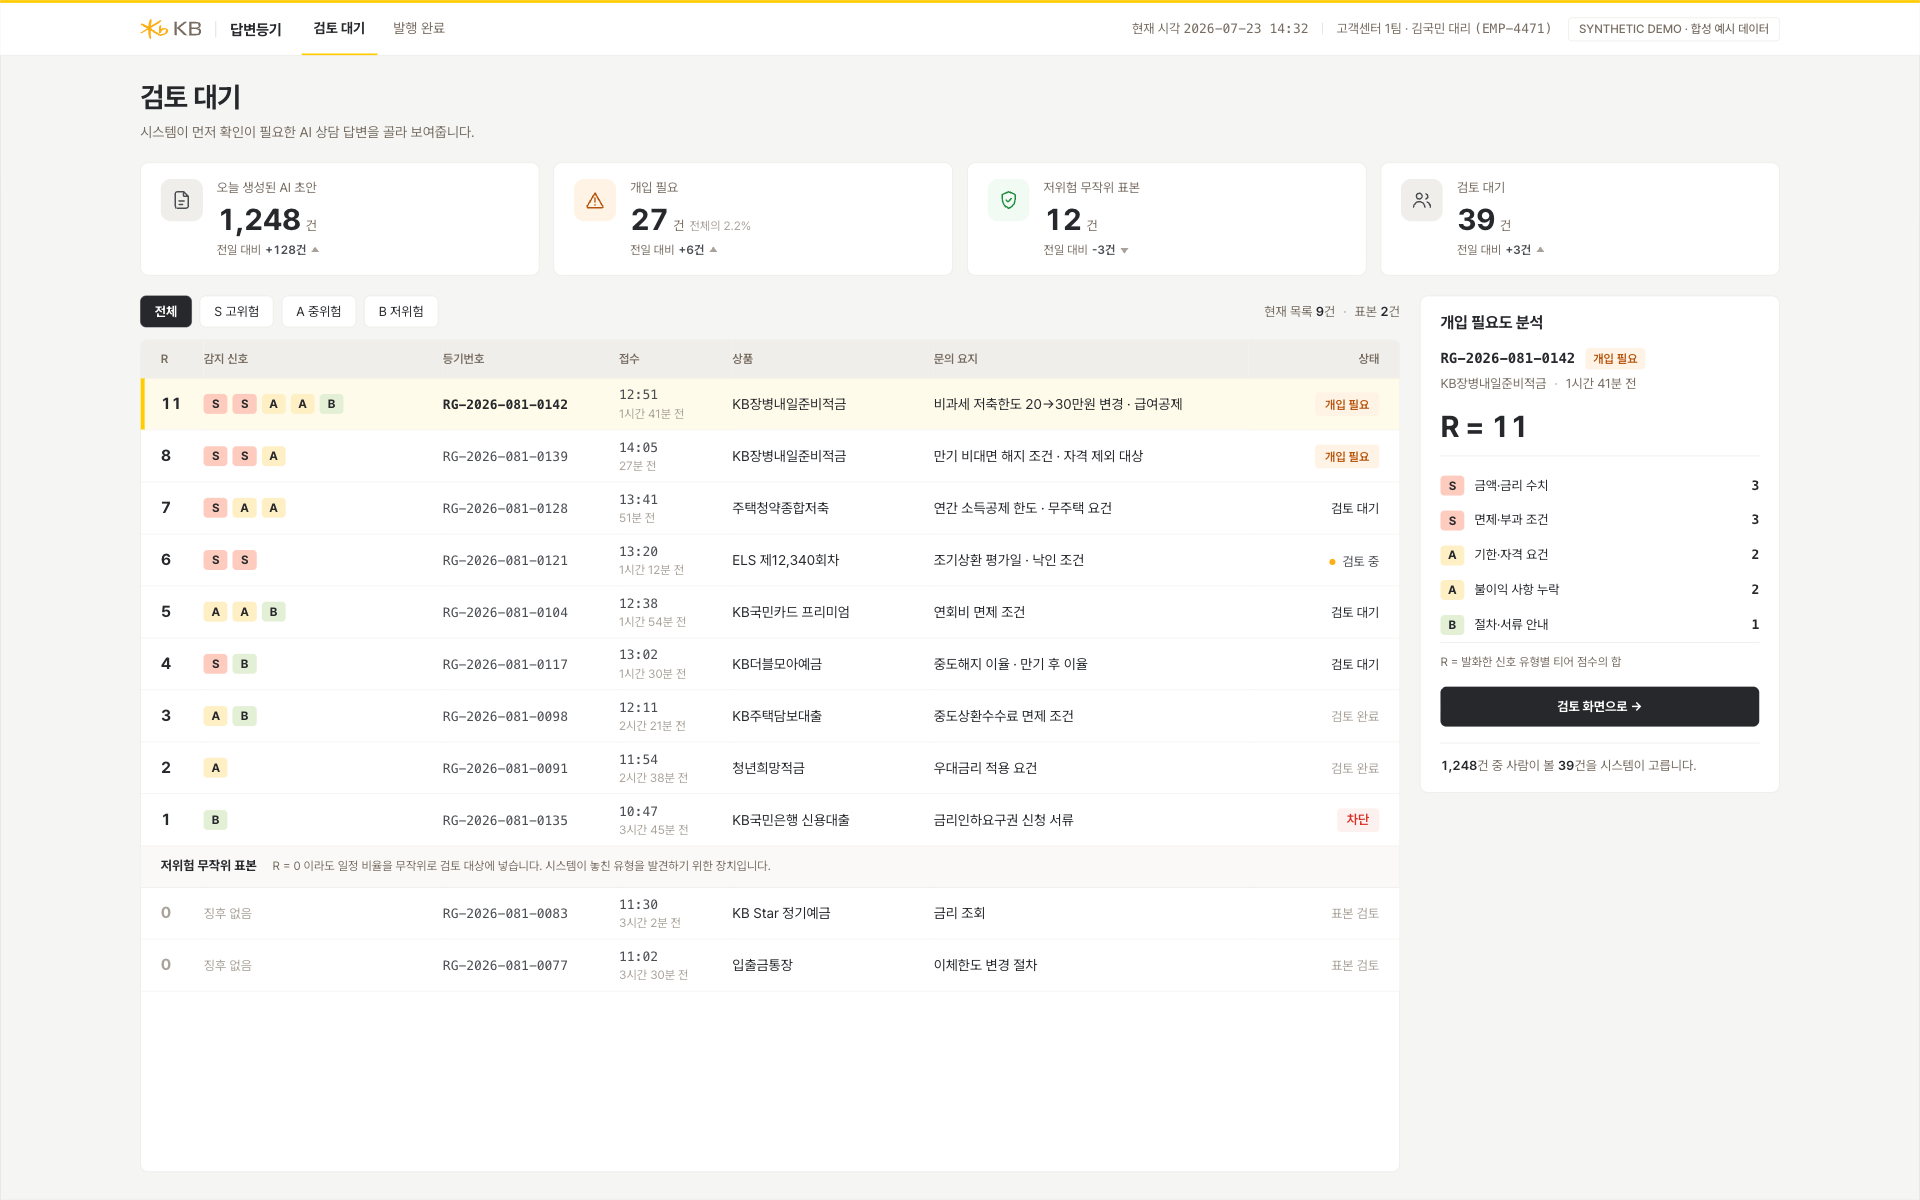
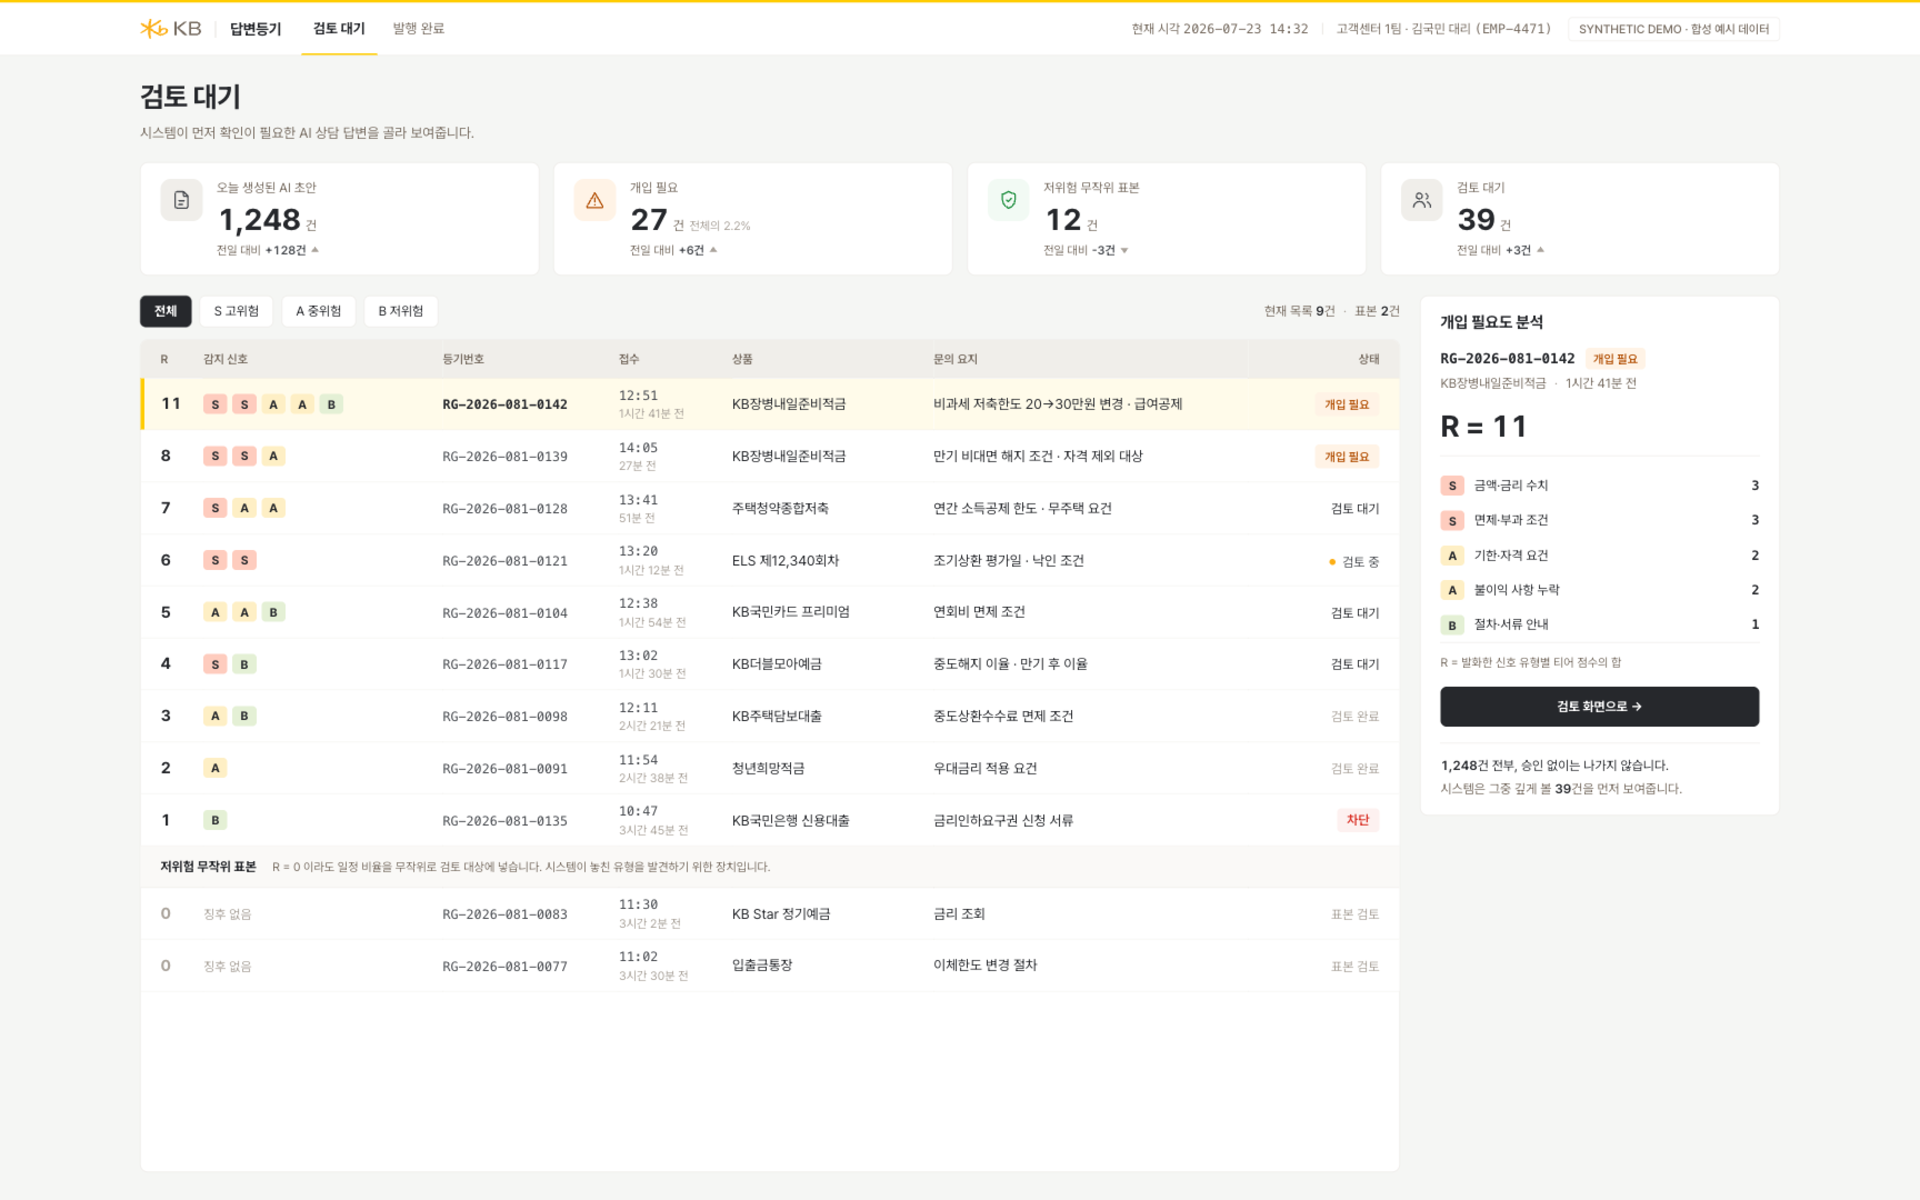
층위 문구 교체 + 테스트·차단 시연 증거물(docs)
Claude-Session: https://claude.ai/code/session_01KyEJyPajNWw6RzkzFmkocp

diff --git a/src/app/queue-console.tsx b/src/app/queue-console.tsx
@@ -310,14 +310,21 @@ function AnalysisPanel({
         </p>
       )}
 
-      <p className="ko mt-[16px] border-t border-line pt-[12px] text-[13px] leading-[1.6] text-muted">
-        <span className="tabular font-semibold text-ink">
-          {kpi.draftsToday.toLocaleString()}
-        </span>
-        건 중 사람이 볼{' '}
-        <span className="tabular font-semibold text-ink">{humanReviewed}</span>건을 시스템이
-        고릅니다.
-      </p>
+      {/*
+        첫 줄이 원칙(전 건 승인), 둘째 줄이 선별(먼저 볼 순서)이다.
+        "고른 것만 본다"로 읽히면 승인 없이 나가는 건이 있다는 오해가 생긴다.
+      */}
+      <div className="ko mt-[16px] border-t border-line pt-[12px] text-[13px] leading-[1.6]">
+        <p className="text-ink">
+          <span className="tabular font-semibold">{kpi.draftsToday.toLocaleString()}</span>건
+          전부, 승인 없이는 나가지 않습니다.
+        </p>
+        <p className="mt-[2px] text-muted">
+          시스템은 그중 깊게 볼{' '}
+          <span className="tabular font-semibold text-ink">{humanReviewed}</span>건을 먼저
+          보여줍니다.
+        </p>
+      </div>
     </Sheet>
   );
 }
